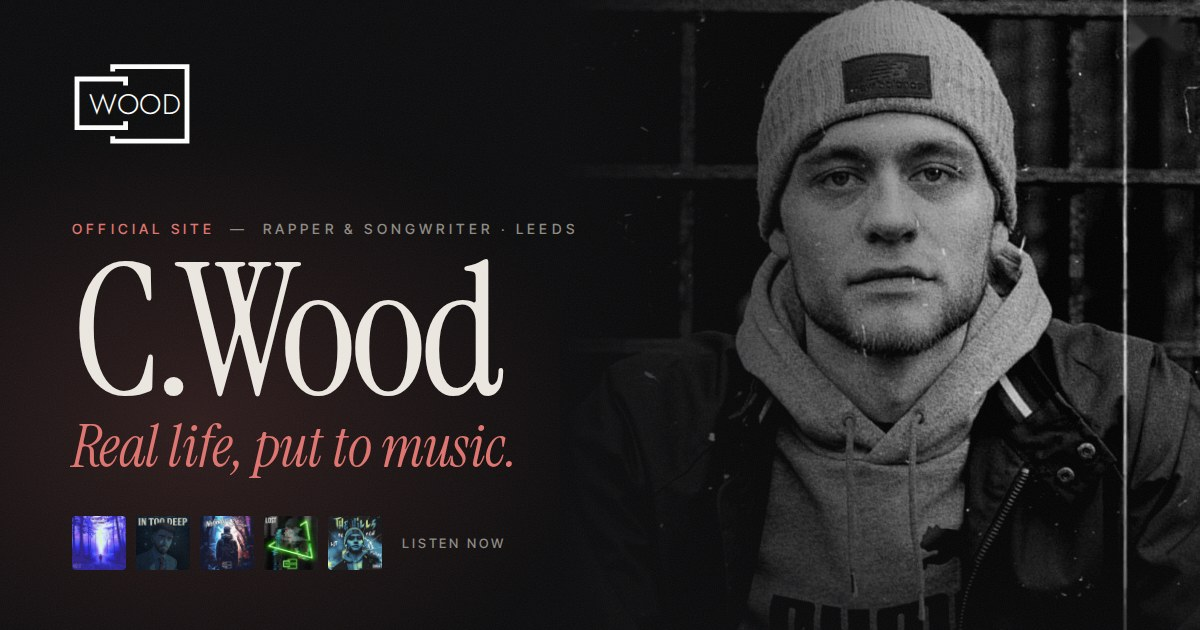
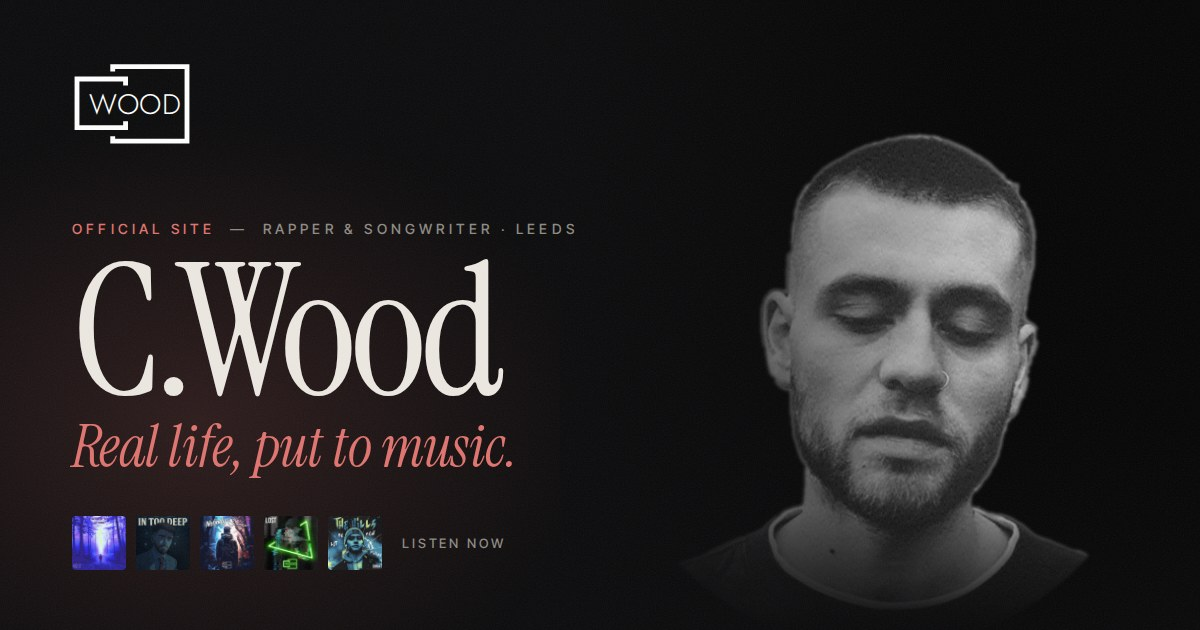
Use Connor's latest portrait as the hero and share image
Claude-Session: https://claude.ai/code/session_01YRrVmme7hRRYhuDyiH2d8G

Changed region(s): [[0.6167, 0.0, 1.0, 0.9651], [0.6475, 0.9349, 0.8017, 0.9952]]

diff --git a/connor-site/index.html b/connor-site/index.html
@@ -98,12 +98,12 @@
   /* hero */
   .hero{position:relative;min-height:100svh;display:flex;flex-direction:column;justify-content:flex-end;overflow:hidden;isolation:isolate}
   .hero-img{position:absolute;inset:0 0 0 auto;width:min(58%,820px);z-index:-2}
-  .hero-img img{width:100%;height:100%;object-fit:cover;object-position:50% 20%;filter:grayscale(1) contrast(1.1) brightness(.85);transform:scale(1.08);animation:settle 2.6s var(--ease) forwards}
+  .hero-img img{width:100%;height:100%;object-fit:cover;object-position:50% 75%;filter:grayscale(1) contrast(1.05);transform:scale(1.08);animation:settle 2.6s var(--ease) forwards}
   @keyframes settle{to{transform:scale(1)}}
   .hero-img::after{content:"";position:absolute;inset:0;background:linear-gradient(90deg,var(--bg) 0%,rgba(10,10,11,.55) 35%,rgba(10,10,11,.1) 70%),linear-gradient(0deg,var(--bg) 0%,transparent 40%)}
   .hero::before{content:"";position:absolute;inset:0;z-index:-1;background:radial-gradient(60% 50% at 20% 60%,rgba(224,115,111,.12),transparent 70%)}
-  .hero-body{padding-top:140px;padding-bottom:56px}
-  .hero h1{font:400 clamp(4rem,12.5vw,11.5rem)/.86 var(--serif);letter-spacing:-.025em;margin:22px 0 0}
+  .hero-body{width:100%;padding-top:140px;padding-bottom:120px}
+  .hero h1{font:400 clamp(4rem,10vw,9.5rem)/.88 var(--serif);letter-spacing:-.025em;margin:22px 0 0}
   .hero h1 i{color:var(--accent)}
   .hero h1 .ln{display:block;overflow:hidden}
   .hero h1 .ln>span{display:block;transform:translateY(105%);animation:rise 1.2s var(--ease) forwards}
@@ -340,7 +340,7 @@
 </nav>
 
 <header class="hero" id="top">
-  <div class="hero-img"><img src="img/connor-portrait.jpg" alt="Black and white portrait of Connor (C.Wood)" fetchpriority="high"></div>
+  <div class="hero-img"><img src="img/connor-hero.jpg" alt="Black and white portrait of Connor (C.Wood)" fetchpriority="high"></div>
   <div class="wrap hero-body">
     <p class="label fade"><b>C.Wood</b> &nbsp;—&nbsp; Rapper &amp; songwriter &nbsp;·&nbsp; Leeds, UK</p>
     <h1><span class="ln"><span>Real life,</span></span><span class="ln"><span><i>put to music.</i></span></span></h1>
